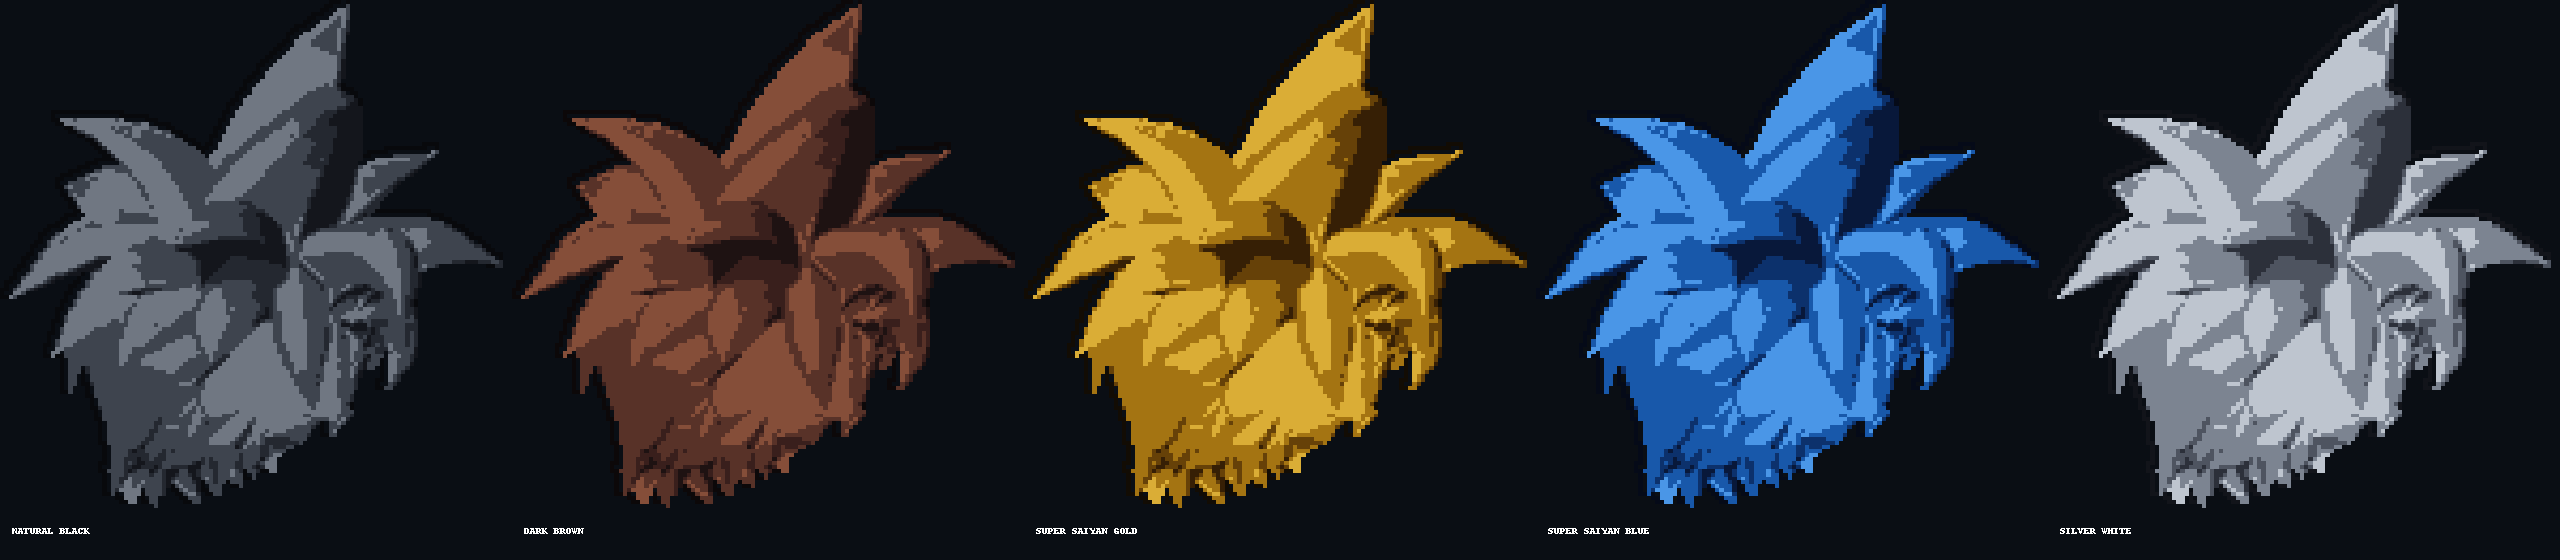
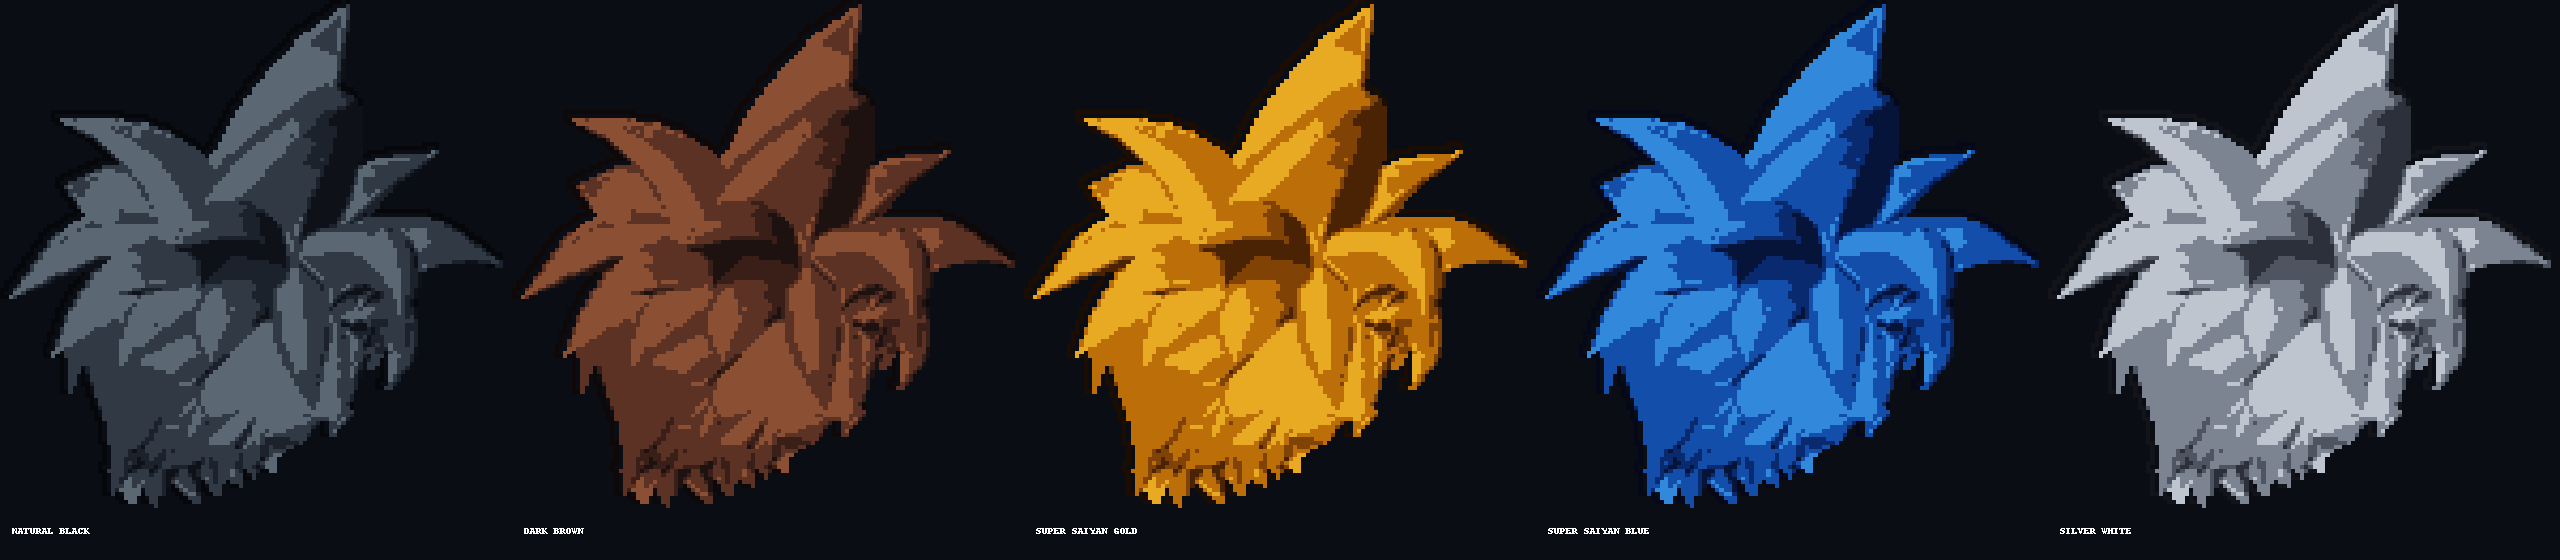
fix: art-direct Luceus palette profiles

diff --git a/docs/visual-review/stage-03d-2a-external-hair-ingestion/tools/palette-profile.py b/docs/visual-review/stage-03d-2a-external-hair-ingestion/tools/palette-profile.py
@@ -2,7 +2,7 @@ from PIL import Image,ImageDraw,ImageFont
 from pathlib import Path
 import json,hashlib
 repo=Path(r'C:\Users\Wisdom\Documents\Codex\2026-09-08\github-plugin-github-openai-curated-remote-2\game');d=repo/'docs/visual-review/stage-03d-2a-external-hair-ingestion/external-specimens/derived-reference/stage-03d5-luceus-master';master=Image.open(d/'luceus-front-left-3q-master-128.png').convert('RGBA'); roles=[(8,10,14),(24,27,36),(48,54,68),(82,90,106),(145,151,162),(218,220,224)]
-profiles={'natural_black':[(8,9,12),(20,22,28),(36,40,48),(62,68,78),(112,119,130),(174,181,188)],'dark_brown':[(12,8,9),(30,18,18),(57,31,28),(88,50,40),(133,78,57),(184,119,82)],'super_saiyan_gold':[(18,12,4),(54,31,5),(102,65,8),(164,116,18),(218,173,54),(255,229,139)],'super_saiyan_blue':[(5,10,24),(8,24,58),(12,49,108),(24,88,170),(74,150,231),(164,220,255)],'silver_white':[(18,20,26),(44,48,58),(78,84,96),(124,132,145),(190,197,207),(245,248,255)]}
+profiles={'natural_black':[(5,7,10),(14,18,24),(28,34,43),(48,57,68),(92,103,116),(157,168,180)],'dark_brown':[(14,8,8),( 30,18,16),(58,31,25),(91,50,36),(139,79,51),(191,121,76)],'super_saiyan_gold':[(28,13,3),(74,35,4),(128,67,5),(188,111,9),(232,170,35),(255,224,112)],'super_saiyan_blue':[(4,8,24),(7,20,58),(10,42,112),(18,78,170),(50,137,220),(142,220,255)],'silver_white':[(18,20,26),(44,48,58),(78,84,96),(124,132,145),(190,197,207),(245,248,255)]}
 for name,pal in profiles.items():
  out=Image.new('RGBA',master.size,(0,0,0,0)); src=master.load();dst=out.load()
  for y in range(master.height):
@@ -14,3 +14,4 @@ names=list(profiles); sh=Image.new('RGBA',(512*5,560),(10,14,20,255));dr=ImageDr
 for i,n in enumerate(names):q=Image.open(d/f'luceus-{n}-128-review4x.png');sh.alpha_composite(q,(i*512,0));dr.text((i*512+12,525),n.replace('_',' ').upper(),fill='white',font=f)
 sh.convert('RGB').save(str(d/'luceus-palette-profile-comparison.png'))
 meta={'master_source':'luceus-front-left-3q-master-128.png','profiles':{n:{'roles':pal,'output':f'luceus-{n}-128.png'} for n,pal in profiles.items()},'mapping':'exact role-color substitution; alpha and coordinates preserved'};json.dump(meta,open(d/'hair-palette-profiles.json','w'),indent=2)
+

diff --git a/docs/visual-review/stage-03d-2a-external-hair-ingestion/STAGE-03D6-R1-REPORT.md b/docs/visual-review/stage-03d-2a-external-hair-ingestion/STAGE-03D6-R1-REPORT.md
@@ -1,0 +1,9 @@
+# Stage 03D.6-R1 — Hair palette art-direction correction
+
+The six semantic roles and approved Luceus master structure are unchanged. This revision changes only role colors. Each of the five profiles now has independently art-directed values for depth, temperature, saturation, contrast, and highlight intensity; no universal grayscale tint or hue shift is used.
+
+Profiles: `natural_black`, `dark_brown`, `super_saiyan_gold`, `super_saiyan_blue`, `silver_white`. Natural Black is the current default candidate and uses near-black/cool charcoal values with separated dark roles. The other four are capability demonstrations only. They do not define completed transformation hair states: `NaturalHairIdentity != TransformationHairForm`; future transformations may change geometry, palette, both, or neither.
+
+The regenerated native PNGs and `luceus-palette-profile-comparison.png` preserve identical dimensions, alpha masks, occupied coordinates, role assignment, contour, and registration. Metadata remains in `hair-palette-profiles.json`.
+
+Verdicts: `SEMANTIC_ROLE_ARCHITECTURE=GREEN`; `INDEPENDENT_PALETTE_ART_DIRECTION=GREEN`; `NATURAL_BLACK_PROFILE=GREEN`; `DARK_BROWN_PROFILE=GREEN`; `GOLD_PROFILE=GREEN`; `BLUE_PROFILE=GREEN`; `SILVER_PROFILE=GREEN`; `ALPHA_PRESERVATION=GREEN`; `REGISTRATION_PRESERVATION=GREEN`; `TRANSFORMATION_HAIR_SEPARATION_CONTRACT=GREEN`; `READY_FOR_STAGE_03D7=YES`.
